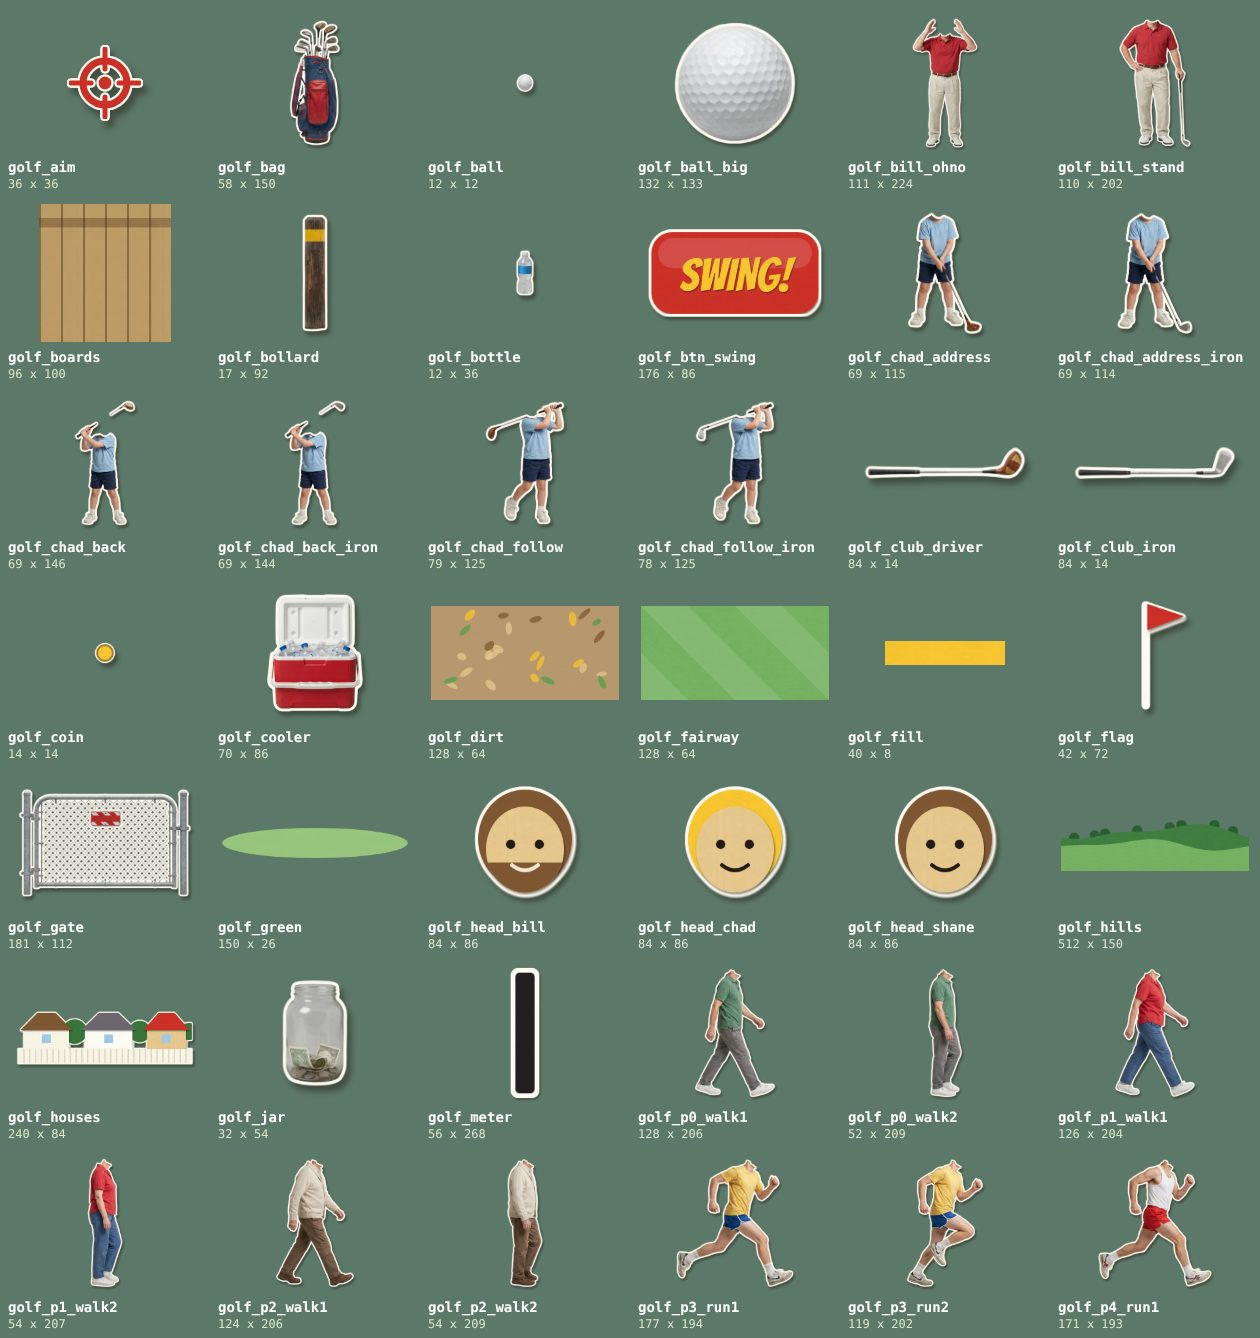
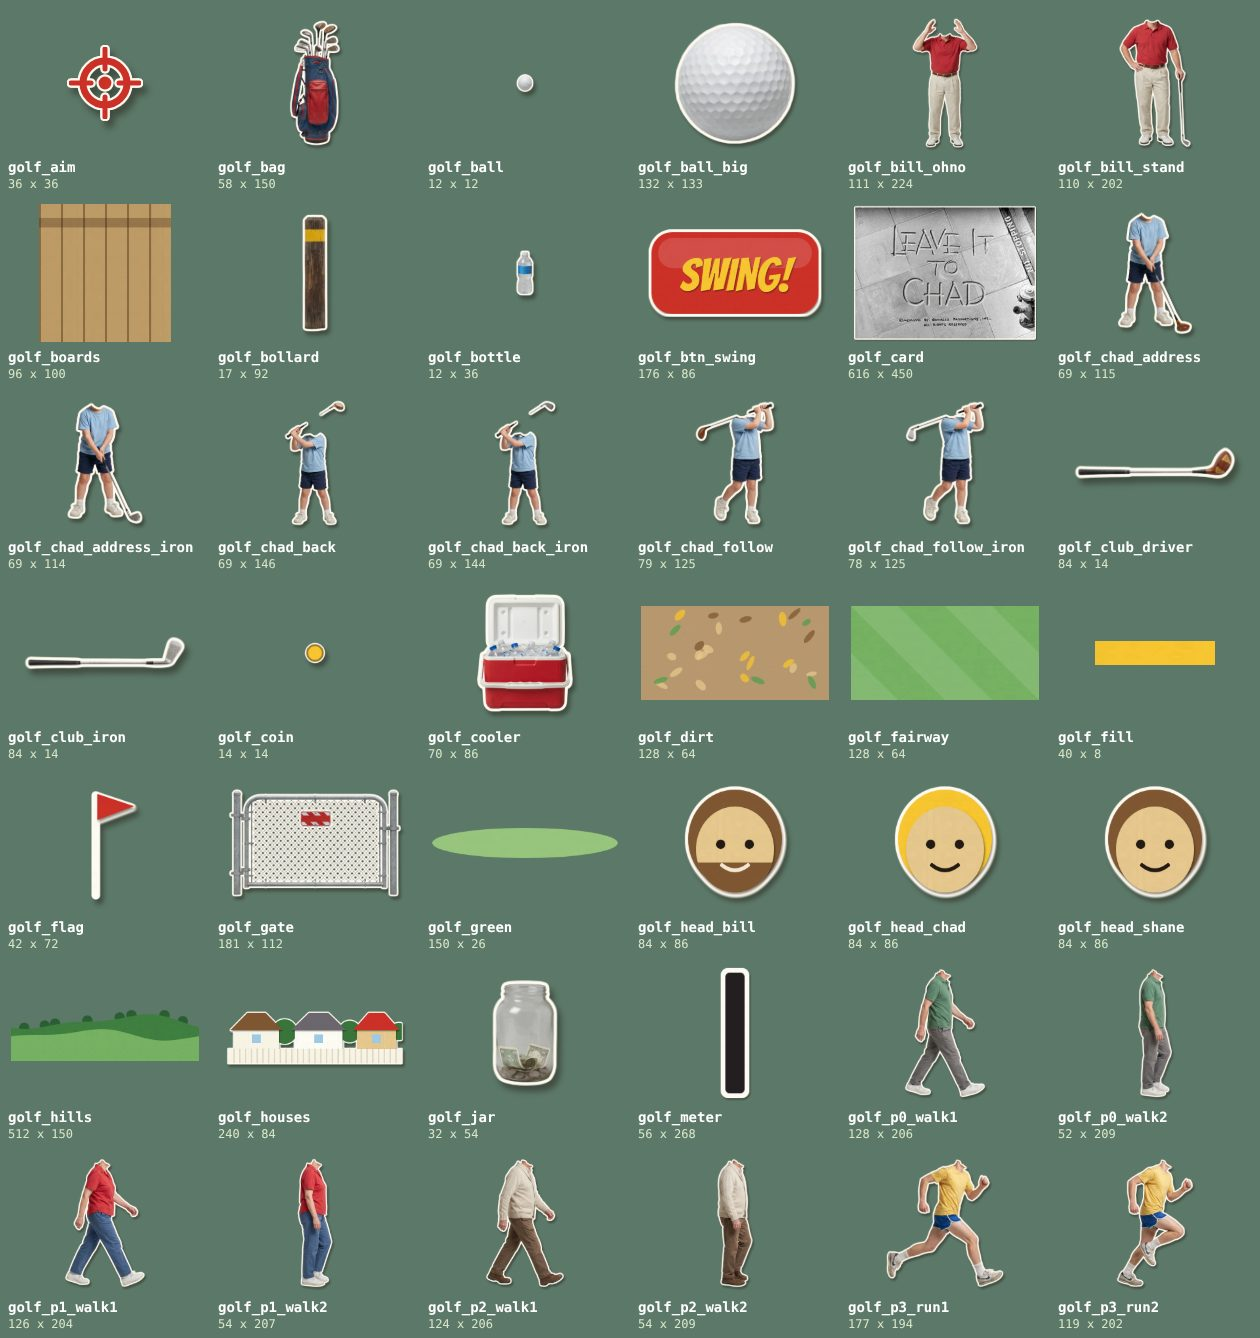
FORE!: the owner's title card, and heads that sit on their shoulders
The panel for the second day is the owner's own picture of it: "Leave It To
Chad" written in wet cement. It is shown whole, as a photo taped to the page,
with THE NEXT DAY under it (the words in marker pen are still there for when
the pictures cannot be had).

Everybody on the trail had their head a little ahead of their body. Each was
hung at the chin of the head that came off, and on a body seen from the side
the chin is ten pixels out in front of the middle of the head. A head that
looks straight out of the page now hangs over the middle of the one it
replaces (`side` in cut.py; the pieces themselves are unchanged).

Claude-Session: https://claude.ai/code/session_019b7mfMx5FyCybEQTsDJjFF

diff --git a/src/minis/golf/cuts.ts b/src/minis/golf/cuts.ts
@@ -2,7 +2,8 @@
  *  The bodies: for each pose its picture, how big it is drawn (game pixels to one of
  *  the picture's), the spot on the ground it stands on (as a fraction of the picture),
  *  and from that spot, in game pixels: where the chin goes, how far the head tips, and
- *  where the hand that is furthest forward is.
+ *  where the hand that is furthest forward is. (For somebody seen from the side, the
+ *  chin is under the middle of their head, which is where a head that faces us hangs.)
  *  The signs: the blank part of each, to be lettered (left, top, right, bottom, as
  *  fractions of its picture).
  *  The places: each one's picture, how tall it is made and how wide that makes it.
@@ -18,18 +19,18 @@ export const GOLF_BODIES: Record<string, GolfBody> = {
   chad_follow_iron: { file: 'chad-follow-iron.png', scale: 0.3333, spot: [0.648, 0.996], chin: [-4.8, -110.0], tilt: -0.04, hand: [25.9, -99.9] },
   bill_stand: { file: 'bill-stand.png', scale: 0.3333, spot: [0.465, 0.997], chin: [-0.7, -198.0], tilt: 0.00, hand: [49.0, -113.7] },
   bill_ohno: { file: 'bill-ohno.png', scale: 0.3333, spot: [0.496, 0.997], chin: [-0.6, -194.4], tilt: 0.00, hand: [53.7, -174.9] },
-  p0_walk1: { file: 'p0-walk1.png', scale: 0.3333, spot: [0.423, 0.997], chin: [19.6, -196.3], tilt: 0.00, hand: [55.4, -117.0] },
-  p0_walk2: { file: 'p0-walk2.png', scale: 0.3333, spot: [0.443, 0.997], chin: [16.4, -198.0], tilt: 0.00, hand: [26.6, -78.3] },
-  p1_walk1: { file: 'p1-walk1.png', scale: 0.3333, spot: [0.436, 0.997], chin: [16.7, -195.7], tilt: 0.00, hand: [58.8, -119.1] },
-  p1_walk2: { file: 'p1-walk2.png', scale: 0.3333, spot: [0.448, 0.997], chin: [14.5, -198.0], tilt: 0.00, hand: [27.1, -78.4] },
-  p2_walk1: { file: 'p2-walk1.png', scale: 0.3333, spot: [0.435, 0.997], chin: [21.5, -195.6], tilt: 0.00, hand: [53.6, -114.6] },
-  p2_walk2: { file: 'p2-walk2.png', scale: 0.3333, spot: [0.454, 0.997], chin: [17.7, -198.0], tilt: 0.00, hand: [27.6, -78.1] },
-  p3_run1: { file: 'p3-run1.png', scale: 0.3333, spot: [0.519, 0.996], chin: [30.5, -182.6], tilt: 0.00, hand: [62.0, -159.2] },
-  p3_run2: { file: 'p3-run2.png', scale: 0.3333, spot: [0.492, 0.996], chin: [27.8, -190.0], tilt: 0.00, hand: [58.1, -161.1] },
-  p4_run1: { file: 'p4-run1.png', scale: 0.3333, spot: [0.510, 0.996], chin: [27.9, -181.3], tilt: 0.00, hand: [56.1, -160.2] },
-  p4_run2: { file: 'p4-run2.png', scale: 0.3333, spot: [0.473, 0.996], chin: [24.8, -190.0], tilt: 0.00, hand: [51.0, -161.1] },
-  p5_run1: { file: 'p5-run1.png', scale: 0.3333, spot: [0.507, 0.996], chin: [31.6, -181.3], tilt: 0.00, hand: [63.0, -164.6] },
-  p5_run2: { file: 'p5-run2.png', scale: 0.3333, spot: [0.512, 0.996], chin: [30.9, -190.0], tilt: 0.00, hand: [60.6, -168.1] },
+  p0_walk1: { file: 'p0-walk1.png', scale: 0.3333, spot: [0.423, 0.997], chin: [9.0, -196.3], tilt: 0.00, hand: [55.4, -117.0] },
+  p0_walk2: { file: 'p0-walk2.png', scale: 0.3333, spot: [0.443, 0.997], chin: [6.3, -198.0], tilt: 0.00, hand: [26.6, -78.3] },
+  p1_walk1: { file: 'p1-walk1.png', scale: 0.3333, spot: [0.436, 0.997], chin: [5.4, -195.7], tilt: 0.00, hand: [58.8, -119.1] },
+  p1_walk2: { file: 'p1-walk2.png', scale: 0.3333, spot: [0.448, 0.997], chin: [2.9, -198.0], tilt: 0.00, hand: [27.1, -78.4] },
+  p2_walk1: { file: 'p2-walk1.png', scale: 0.3333, spot: [0.435, 0.997], chin: [11.3, -195.6], tilt: 0.00, hand: [53.6, -114.6] },
+  p2_walk2: { file: 'p2-walk2.png', scale: 0.3333, spot: [0.454, 0.997], chin: [8.0, -198.0], tilt: 0.00, hand: [27.6, -78.1] },
+  p3_run1: { file: 'p3-run1.png', scale: 0.3333, spot: [0.519, 0.996], chin: [21.2, -182.6], tilt: 0.00, hand: [62.0, -159.2] },
+  p3_run2: { file: 'p3-run2.png', scale: 0.3333, spot: [0.492, 0.996], chin: [18.0, -190.0], tilt: 0.00, hand: [58.1, -161.1] },
+  p4_run1: { file: 'p4-run1.png', scale: 0.3333, spot: [0.510, 0.996], chin: [20.3, -181.3], tilt: 0.00, hand: [56.1, -160.2] },
+  p4_run2: { file: 'p4-run2.png', scale: 0.3333, spot: [0.473, 0.996], chin: [16.5, -190.0], tilt: 0.00, hand: [51.0, -161.1] },
+  p5_run1: { file: 'p5-run1.png', scale: 0.3333, spot: [0.507, 0.996], chin: [23.4, -181.3], tilt: 0.00, hand: [63.0, -164.6] },
+  p5_run2: { file: 'p5-run2.png', scale: 0.3333, spot: [0.512, 0.996], chin: [22.4, -190.0], tilt: 0.00, hand: [60.6, -168.1] },
 };
 
 export const GOLF_SIGNS: Record<string, [number, number, number, number]> = {

diff --git a/src/minis/golf/GolfMini.ts b/src/minis/golf/GolfMini.ts
@@ -444,19 +444,24 @@ export class GolfMini extends Mini {
 
   // ---- the next day -----------------------------------------------------------------------------
 
-  /** A title card, as on an old television programme about two brothers. */
+  /** A title card, as on an old television programme about two brothers: the owner's picture of
+   *  it, "Leave It To Chad" written in wet cement, or the same words in marker pen if it cannot be had. */
   private card(): void {
-    const s = this.scene;
+    const s = this.scene, photo = s.textures.exists('golf_card');
     this.cut('card');
     s.add.rectangle(this.cx, H / 2, MAX_W * 2, H * 2, 0x16131c).setDepth(1);
-    if (s.textures.exists('tv_lines')) s.add.tileSprite(this.cx, H / 2, MAX_W + BLEED * 2, H + BLEED * 2, 'tv_lines').setDepth(2).setAlpha(0.5);
-    const title = marker(s, this.cx, 214, 'Leave It To Chad', 68).setDepth(3).setRotation(-0.04).setScale(0.8);
-    s.tweens.add({ targets: title, scale: 1, duration: 260, ease: 'Back.out' });
-    const tape = img(s, this.cx, 330, 'tape_l').setDepth(3).setRotation(0.015);
-    const day = written(s, this.cx, 330, 'THE NEXT DAY', 26).setDepth(4).setRotation(0.015);
+    const title = photo
+      ? img(s, this.cx, 262, 'golf_card').setDepth(3).setRotation(-0.012)
+      : marker(s, this.cx, 214, 'Leave It To Chad', 68).setDepth(3).setRotation(-0.04);
+    const full = title.scale;
+    title.setScale(full * 0.86);
+    s.tweens.add({ targets: title, scale: full, duration: 260, ease: 'Back.out' });
+    const at = photo ? 510 : 330;
+    const tape = img(s, this.cx, at, 'tape_l').setDepth(4).setRotation(0.015);
+    const day = written(s, this.cx, at, 'THE NEXT DAY', 26).setDepth(5).setRotation(0.015);
     tape.setScale(tape.scale * Math.max(0.5, (day.width + 50) / ART.tape_l.w), tape.scale * 1.15);
     jingle();
-    this.script([[2.3, () => this.trailScene()]]);
+    this.script([[2.6, () => this.trailScene()]]);
   }
 
   /** The entrance to the Iron Horse Trail, and a table with a sign on it. */

diff --git a/src/minis/golf/index.ts b/src/minis/golf/index.ts
@@ -41,6 +41,8 @@ const PIECES: Piece[] = [
   // Windows R Us
   { key: 'golf_store', file: 'store.png', h: 350, border: 2.5, anchor: FOOT, decorate: lettered('store', letterShop) },
   { key: 'golf_window_new', file: 'window-new.png', h: 150, border: 2.5 },
+  // the title card for the second day (the owner's own picture: there is no paper one, only the words)
+  { key: 'golf_card', file: 'card.jpg', h: 450, border: 4 },
 ];
 
 /** The whole places (the first tee, the trail, the lot outside the shop): each is one photo,

diff --git a/src/minis/golf/cut.py b/src/minis/golf/cut.py
@@ -25,6 +25,8 @@ What came from the owner, and what Adobe was asked for each:
              dropped them. It did not: those masks are kept and not used.)
   GF3, GF5,  The first tee, the trail and the lot outside the shop: whole places,
   GF10       which go in as they are, made smaller.
+  CARD       The title card for the second day, "Leave It To Chad", which the owner
+             made: it goes in as it is, made smaller.
 """
 import os
 import sys
@@ -74,11 +76,15 @@ def keep():
 
 # ---- people ---------------------------------------------------------------------------------
 
-def figure(name):
+def figure(name, side=False):
     """Somebody with their head taken off. Returns the piece cut down to them, the spot on the
     ground they stand on (as a fraction of the piece: under the middle of their trunk, at the
     bottom of their feet), and from that spot, in the picture's pixels: where the chin was, how
-    far it is from chin to ground, and where the hand that is furthest forward is."""
+    far it is from chin to ground, and where the hand that is furthest forward is.
+
+    Somebody seen from the `side` is given a head that looks straight out of the page, which
+    belongs over the middle of the head that came off: their own chin is well out in front of
+    that (ten of the game's pixels), and a head hung there is ahead of its body."""
     cut = adobe(name)
     head = mc.selection(f"{name}-headmask.png")
     body = mc.without_heads(cut, [head])
@@ -88,6 +94,8 @@ def figure(name):
         club = (mc.selection(f"{name}-clubmask.png") > 0.5) & (head < 0.5)
         body[..., 3] = np.where(club, cut[..., 3], body[..., 3])
     (cx, cy), _ = mc.chin_of(head)
+    if side:
+        cx = float(np.where(head > 0.5)[1].mean())
     ys, xs = np.where((body[..., 3] > 0.3) & ~club)
     feet = float(ys.max())
     tall = feet - cy
@@ -102,7 +110,7 @@ def figure(name):
 
 
 # sheet, how far from ground to chin for whoever on it is standing straightest, and each figure on it:
-# what it is called, and how far its head tips
+# what it is called, and how far its head tips (the people on the trail, GF8, are seen from the side)
 PEOPLE = [
     ("GF1-chad-golf", KID, [("chad_address", 0.06), ("chad_back", 0.1), ("chad_follow", -0.04)]),
     ("GF1b-chad-iron", KID, [("chad_address_iron", 0.06), ("chad_back_iron", 0.1), ("chad_follow_iron", -0.04)]),
@@ -121,7 +129,7 @@ def people():
     for sheet, height, poses in PEOPLE:
         if not any(os.path.exists(os.path.join(mc.SRC, f"{sheet}-1-cutout{ext}")) for ext in (".png", ".webp")):
             continue                    # not made yet
-        found = [(pose, tilt, figure(f"{sheet}-{k + 1}")) for k, (pose, tilt) in enumerate(poses)]
+        found = [(pose, tilt, figure(f"{sheet}-{k + 1}", side=sheet.startswith("GF8"))) for k, (pose, tilt) in enumerate(poses)]
         # everybody on a sheet is the same size: whoever stands tallest is as tall as that kind of person is
         scale = height / max(f["tall"] for _, _, f in found)
         # (Chad with the iron is the same picture as Chad with the driver, and is made the same size)
@@ -230,9 +238,19 @@ def places():
     return made
 
 
+def card():
+    """The title card for the second day, as the owner made it: 450 of the game's pixels tall."""
+    im = Image.open(os.path.join(mc.GEN, "CARD-leave-it-to-chad.webp")).convert("RGB")
+    im = im.resize((round(im.width * 900 / im.height), 900), Image.LANCZOS)
+    out = os.path.join(mc.OUT, "card.jpg")
+    im.save(out, quality=86, optimize=True)
+    print("card.jpg", im.width, "x", im.height, os.path.getsize(out), "bytes")
+
+
 def cut():
     os.makedirs(mc.OUT, exist_ok=True)
     bodies, signs, grounds = people(), things(), places()
+    card()
     table = os.path.join(HERE, "cuts.ts")
     pair = lambda v: f"[{v[0]:.1f}, {v[1]:.1f}]"
     with open(table, "w") as f:
@@ -240,7 +258,8 @@ def cut():
                 " *  The bodies: for each pose its picture, how big it is drawn (game pixels to one of\n"
                 " *  the picture's), the spot on the ground it stands on (as a fraction of the picture),\n"
                 " *  and from that spot, in game pixels: where the chin goes, how far the head tips, and\n"
-                " *  where the hand that is furthest forward is.\n"
+                " *  where the hand that is furthest forward is. (For somebody seen from the side, the\n"
+                " *  chin is under the middle of their head, which is where a head that faces us hangs.)\n"
                 " *  The signs: the blank part of each, to be lettered (left, top, right, bottom, as\n"
                 " *  fractions of its picture).\n"
                 " *  The places: each one's picture, how tall it is made and how wide that makes it.\n"

diff --git a/src/minis/golf/README.md b/src/minis/golf/README.md
@@ -57,7 +57,9 @@ clock for it. The trail has a clock of its own, drawn where the scene's is.
    and somebody indoors: "MY WINDOW!!".
 4. **Back at the tee.** Bill with his hands to his head; Chad: "DID I WIN?"
 
-**The next day.** A title card, "Leave It To Chad", and the trail.
+**The next day.** A title card, "Leave It To Chad" (the owner's picture of
+it: the words written in wet cement, as the programme's own title is), and the
+trail.
 
 5. Shane: "GEE, CHAD. WE HAVE TO PAY FOR THAT WINDOW." Chad: "GEE, SHANE.
    HOW?" Shane: "WE SELL WATER. A DOLLAR A BOTTLE."
@@ -85,8 +87,9 @@ to be said:
   WINDOW!!", "DID I WIN?", the three lines at the stand, "THAT'S A WINDOW!",
   "ONE WINDOW, PLEASE." and "NOT ENOUGH. SAME TIME TOMORROW, CHAD." (they are
   all in `GolfMini.ts`: search for `say(`).
-- **The title card "Leave It To Chad",** and the two "GEE"s, which are how
-  Shane is made the Wally to Chad's Beaver.
+- **The two "GEE"s,** which with the title card are how Shane is made the
+  Wally to Chad's Beaver. (The card itself is the owner's: he made the
+  picture of it, and it went in as it came.)
 - **That the house is a stranger's.** Nobody is seen in it: their mother does
   not come to the door, so it reads as a house beside the course.
 - **That it can be lost** on the second day, and the numbers: a dollar a
@@ -106,7 +109,8 @@ a row who are not.
 ## Pictures
 
 Sixteen pictures came from the owner on 26 November 2026, made from the
-prompts below, and all of them are in the game. They are kept as they came in
+prompts below, and a title card of his own making; all of them are in the
+game. They are kept as they came in
 `art-src/games/golf` (`GF1-chad-golf.webp` and so on), with Adobe's cutouts and
 selections of them beside them; `cut.py` makes the pieces in `assets` from
 those, and writes `cuts.ts`: where each chin is, where each blank sign is to be
@@ -125,6 +129,7 @@ lettered, how wide each place is.
 | Six people, two moments of a stride each | GF8a to GF8f | `golf_p0_walk1` to `golf_p5_run2` |
 | The shop, and one new window | GF9 | `golf_store` (its sign lettered by the game), `golf_window_new` |
 | The lot outside the shop | GF10 | `golf_place_lot` |
+| The title card for the second day | `CARD-leave-it-to-chad`, the owner's own picture (not from a prompt here) | `golf_card`: shown whole, as a photo taped to the page, with "THE NEXT DAY" under it |
 
 **Still cut from paper, and meant to be** (`art.ts`): the buttons, the wind
 dial, the meter, the mark on the ball, the words, the hole in the window and
@@ -149,6 +154,9 @@ Two things to know about the people: Chad's club passes behind his head at
 the top of the swing, so with his head off it is in two pieces, and both are
 kept; and the people on the trail are seen exactly from the side, with heads
 that look straight out of the page, as the rubberneckers' do from their cars.
+Such a head hangs over the middle of the head that came off, not at its chin:
+seen from the side a chin is ten pixels out in front, and the heads were all
+ahead of their bodies until that was put right (`side` in `cut.py`).
 
 What it uses that was already there, as it is:
 

diff --git a/docs/catalogue/README.md b/docs/catalogue/README.md
@@ -14,7 +14,7 @@ The size is how big the picture is drawn, in the game's own pixels (the page is 
 - [Effects](#effects) (25)
 - [Words on bursts](#words) (57)
 - [The interface](#interface) (26)
-- [The quick game "golf"](#game-golf) (67)
+- [The quick game "golf"](#game-golf) (68)
 
 <a id="places"></a>
 
@@ -765,6 +765,7 @@ Made by `src/minis/golf`, and kept in its folder.
 | `golf_bollard` | 17 x 92 |  | `src/minis/golf/assets/bollard.webp` |
 | `golf_bottle` | 12 x 36 |  | `src/minis/golf/assets/bottle.webp` |
 | `golf_btn_swing` | 176 x 86 |  | paper |
+| `golf_card` | 616 x 450 |  | `src/minis/golf/assets/card.jpg` |
 | `golf_chad_address` | 69 x 115 |  | `src/minis/golf/assets/chad-address.webp` |
 | `golf_chad_address_iron` | 69 x 114 |  | `src/minis/golf/assets/chad-address-iron.webp` |
 | `golf_chad_back` | 69 x 146 |  | `src/minis/golf/assets/chad-back.webp` |
